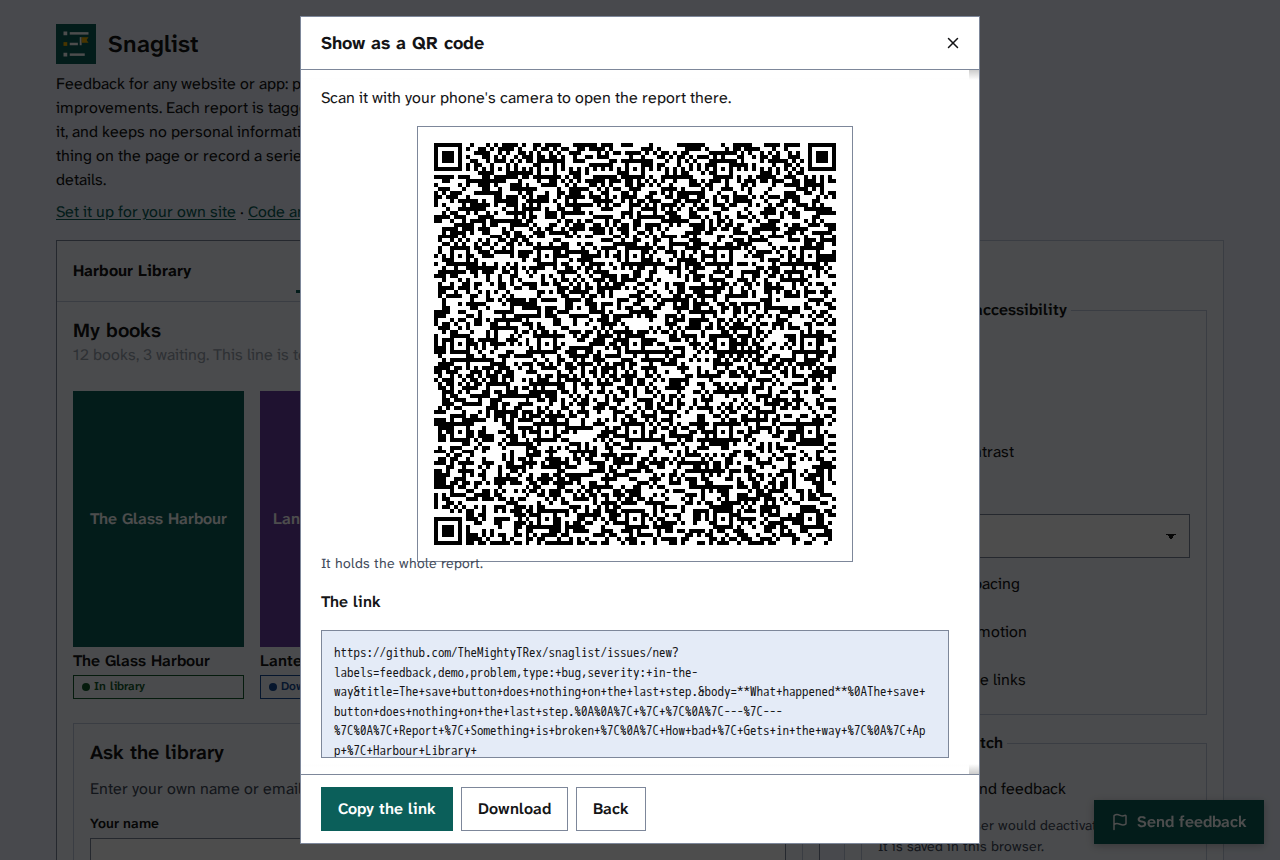
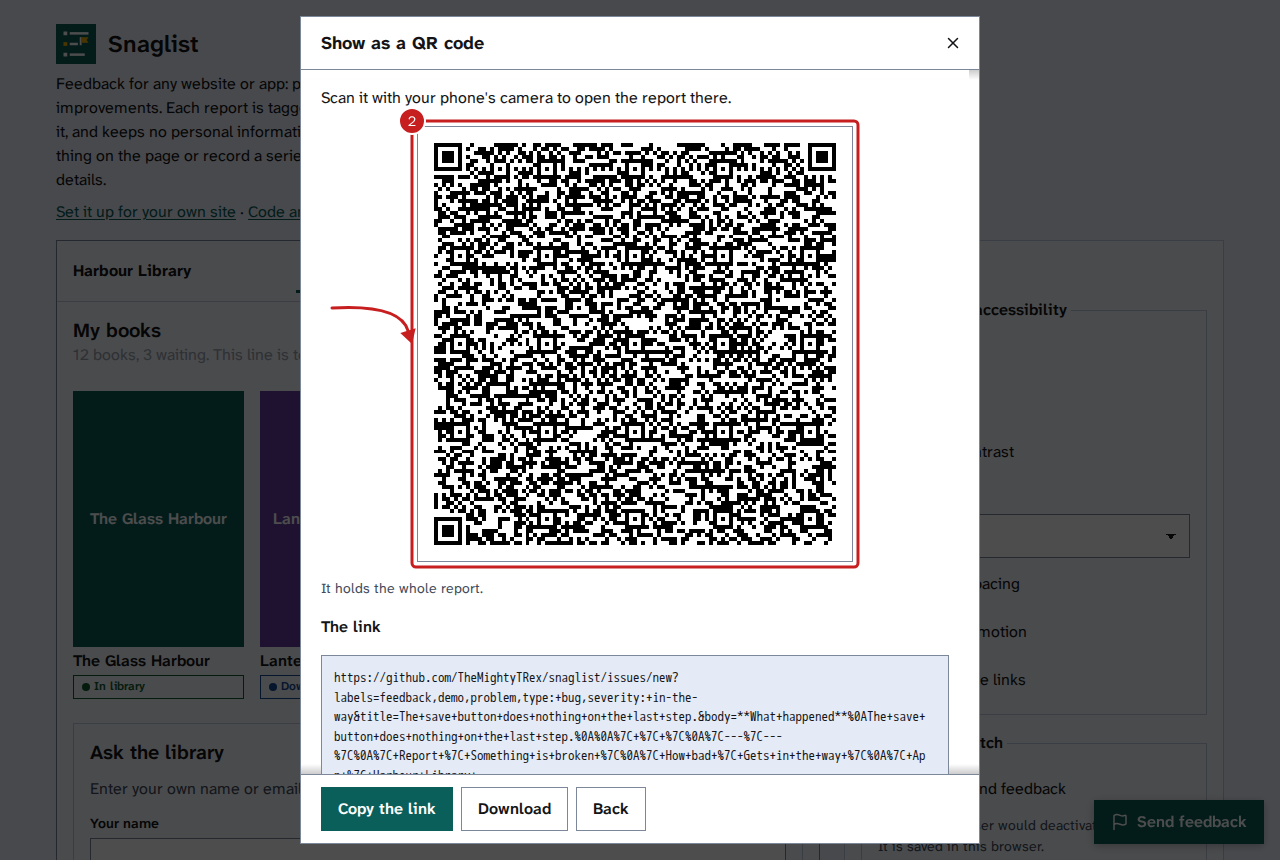
Snaglist 0.4.0: Show as a QR code, tested on a real phone
Marked-up help pictures for Send a report with a QR code (the design system's
annotate.js, moved into Snaglist's open window), the QR code no longer overlaps
its caption in a short window, version 0.4.0, release notes and the security row.

diff --git a/tools/screenshots/annotate.js b/tools/screenshots/annotate.js
@@ -1,0 +1,154 @@
+// Copied from the TRex Design System, tools/annotate.js. Change it there, then copy it here again.
+/* Screenshot mark-up for help, to docs/SCREENSHOTS.md: a red outline 5px outside the control, a curved arrow
+ * with a filled head touching it, and a badge with the article's step number. Paste into the browser console
+ * (or inject it with a test tool), mark, verify, then take the screenshot. Nothing is sent anywhere.
+ *
+ *   Annotate.mark("Add an app", { step: 2, side: "right" })     // exact visible text, tightest element
+ *   Annotate.mark("$#save", { step: 3 })                         // a CSS selector, after the $
+ *   Annotate.mark([el1, el2], { step: 4, side: "bottom" })       // one outline round several elements
+ *   Annotate.mark(Annotate.choice("Keep the old one"), { step: 5 }) // a radio or tick box with its words
+ *   Annotate.verify({ steps: [2, 3, 4, 5] })  // { pass, problems }: never capture when pass is false
+ *   Annotate.clear()
+ */
+(() => {
+  const RED = "#C71F1F", GAP = 5, STROKE = 3, BADGE = 13, MAX = 3;
+  const NS = "http://www.w3.org/2000/svg";
+  const marks = [];
+  let layer = null;
+
+  function svg(tag, attrs) {
+    const n = document.createElementNS(NS, tag);
+    for (const [k, v] of Object.entries(attrs)) n.setAttribute(k, v);
+    return n;
+  }
+
+  function ensureLayer() {
+    if (layer && document.body.contains(layer)) return layer;
+    layer = svg("svg", { id: "__annotate_layer", width: innerWidth, height: innerHeight, "aria-hidden": "true" });
+    Object.assign(layer.style, { position: "fixed", inset: "0", pointerEvents: "none", zIndex: "2147483647", overflow: "visible" });
+    document.body.append(layer);
+    return layer;
+  }
+
+  /** The element whose own visible text is exactly `text`, the tightest one. */
+  function byText(text) {
+    const want = text.trim();
+    let best = null;
+    for (const el of document.querySelectorAll("body *")) {
+      if (el.closest("#__annotate_layer")) continue;
+      const r = el.getBoundingClientRect();
+      if (!r.width || !r.height) continue;
+      if ((el.innerText || "").trim() === want && (!best || best.contains(el))) best = el;
+    }
+    return best;
+  }
+
+  /** A radio button or tick box with its label and the description under it, as one target. */
+  function choice(text) {
+    const label = typeof text === "string" ? byText(text) : text;
+    if (!label) return null;
+    for (let p = label; p && p !== document.body; p = p.parentElement) {
+      if (p.querySelector('input[type="radio"], input[type="checkbox"]')) return p;
+    }
+    return label;
+  }
+
+  function resolve(target) {
+    if (Array.isArray(target)) return target.flatMap(resolve);
+    if (target instanceof Element) return [target];
+    if (typeof target === "string") {
+      const el = target.startsWith("$") ? document.querySelector(target.slice(1)) : byText(target);
+      return el ? [el] : [];
+    }
+    return [];
+  }
+
+  function union(els) {
+    const rs = els.map((e) => e.getBoundingClientRect());
+    const x1 = Math.min(...rs.map((r) => r.left)), y1 = Math.min(...rs.map((r) => r.top));
+    const x2 = Math.max(...rs.map((r) => r.right)), y2 = Math.max(...rs.map((r) => r.bottom));
+    return { x: x1, y: y1, w: x2 - x1, h: y2 - y1 };
+  }
+
+  function draw(m) {
+    const r = union(m.els);
+    const box = { x: r.x - GAP, y: r.y - GAP, w: r.w + GAP * 2, h: r.h + GAP * 2 };
+    m.box = box;
+    const g = svg("g", {});
+    g.append(svg("rect", { x: box.x, y: box.y, width: box.w, height: box.h, rx: 4, fill: "none", stroke: RED, "stroke-width": STROKE }));
+    // The arrow: from `tail` pixels away on the chosen side, a curve that ends on the outline.
+    const t = m.tail;
+    const mid = { x: box.x + box.w / 2, y: box.y + box.h / 2 };
+    const end = { right: { x: box.x + box.w, y: mid.y }, left: { x: box.x, y: mid.y },
+                  top: { x: mid.x, y: box.y }, bottom: { x: mid.x, y: box.y + box.h } }[m.side];
+    const dir = { right: [1, 0], left: [-1, 0], top: [0, -1], bottom: [0, 1] }[m.side];
+    const start = { x: end.x + dir[0] * t, y: end.y + dir[1] * t + (dir[0] ? -t * 0.45 : 0) + 0 };
+    if (!dir[0]) start.x = end.x + t * 0.45;
+    const ctrl = { x: end.x + dir[0] * t * 0.15 + (dir[0] ? 0 : t * 0.5), y: end.y + dir[1] * t * 0.15 + (dir[0] ? -t * 0.5 : 0) };
+    // Stop the line short of the head, so the filled head (not the line) touches the outline.
+    const head = 14;
+    const tx = end.x - ctrl.x, ty = end.y - ctrl.y, len = Math.hypot(tx, ty) || 1;
+    const ux = tx / len, uy = ty / len;
+    const base = { x: end.x - ux * head, y: end.y - uy * head };
+    g.append(svg("path", { d: `M${start.x},${start.y} Q${ctrl.x},${ctrl.y} ${base.x},${base.y}`, fill: "none", stroke: RED, "stroke-width": STROKE, "stroke-linecap": "round" }));
+    const px = -uy, py = ux;
+    g.append(svg("polygon", { points: `${end.x},${end.y} ${base.x + px * 8},${base.y + py * 8} ${base.x - px * 8},${base.y - py * 8}`, fill: RED }));
+    m.arrow = { start, end };
+    // The step badge: top-left, else top-right, else the bottom corners, whichever stays on screen.
+    if (m.step != null) {
+      const spots = [[box.x, box.y], [box.x + box.w, box.y], [box.x, box.y + box.h], [box.x + box.w, box.y + box.h]];
+      const [bx, by] = spots.find(([x, y]) => x - BADGE >= 0 && y - BADGE >= 0 && x + BADGE <= innerWidth && y + BADGE <= innerHeight) || spots[0];
+      g.append(svg("circle", { cx: bx, cy: by, r: BADGE, fill: RED, stroke: "#fff", "stroke-width": 2 }));
+      const label = svg("text", { x: bx, y: by + 5, "text-anchor": "middle", fill: "#fff", "font-size": 14, "font-weight": 700, "font-family": "system-ui, sans-serif" });
+      label.textContent = String(m.step);
+      g.append(label);
+      m.badge = { x: bx, y: by };
+    }
+    m.node = g;
+    ensureLayer().append(g);
+  }
+
+  function mark(target, { step = null, side = "right", tail = 130 } = {}) {
+    const els = resolve(target);
+    if (!els.length) throw new Error(`Annotate: nothing on the page matches ${JSON.stringify(String(target))}`);
+    const m = { target, els, step, side, tail };
+    draw(m);
+    marks.push(m);
+    return m;
+  }
+
+  function verify({ steps } = {}) {
+    const problems = [];
+    if (!Array.isArray(steps)) problems.push("Say which article steps this picture shows: verify({ steps: [...] }), [] for none");
+    if (marks.length > MAX) problems.push(`${marks.length} outlines: at most ${MAX} in one picture`);
+    for (const m of marks) {
+      const name = typeof m.target === "string" ? m.target : m.els[0].tagName.toLowerCase();
+      if (!m.els.every((e) => document.contains(e))) { problems.push(`${name}: the control has left the page`); continue; }
+      const r = union(m.els);
+      const b = m.box;
+      if (Math.abs(r.x - GAP - b.x) > 2 || Math.abs(r.y - GAP - b.y) > 2 || Math.abs(r.w + GAP * 2 - b.w) > 2 || Math.abs(r.h + GAP * 2 - b.h) > 2) {
+        problems.push(`${name}: the page moved, so the outline no longer wraps the control. Clear and mark again`);
+      }
+      for (const [x, y] of [[b.x, b.y], [b.x + b.w, b.y + b.h], [m.arrow.start.x, m.arrow.start.y]]) {
+        if (x < 0 || y < 0 || x > innerWidth || y > innerHeight) { problems.push(`${name}: part of the outline or arrow is off the screen`); break; }
+      }
+      const cx = r.x + r.w / 2, cy = r.y + r.h / 2;
+      const top = document.elementFromPoint(cx, cy);
+      if (top && !m.els.some((e) => e === top || e.contains(top) || top.contains(e))) problems.push(`${name}: something covers the control`);
+      if (Array.isArray(steps) && steps.length && m.step == null) problems.push(`${name}: the outline has no step number`);
+    }
+    if (Array.isArray(steps)) {
+      const badges = marks.map((m) => m.step).filter((s) => s != null).sort((a, b) => a - b);
+      const want = [...steps].sort((a, b) => a - b);
+      if (JSON.stringify(badges) !== JSON.stringify(want)) problems.push(`The badges read ${badges.join(", ") || "none"}; the steps shown are ${want.join(", ") || "none"}`);
+    }
+    return { pass: problems.length === 0, problems };
+  }
+
+  function clear() {
+    marks.splice(0).forEach((m) => m.node && m.node.remove());
+    if (layer) { layer.remove(); layer = null; }
+  }
+
+  window.Annotate = { mark, verify, clear, byText, choice, marks };
+})();

diff --git a/snaglist.js b/snaglist.js
@@ -1,5 +1,5 @@
 /*
- * Snaglist 0.3.2: feedback for any website or app. People report bugs and UX problems, or suggest features and
+ * Snaglist 0.4.0: feedback for any website or app. People report bugs and UX problems, or suggest features and
  * improvements, tagged with the page and the part of it, with the technical detail needed to act on it and
  * without personal information. One file, no libraries, MIT licence.
  * https://github.com/TheMightyTRex/snaglist
@@ -15,7 +15,7 @@
   "use strict";
   if (window.Snaglist) return;
 
-  const VERSION = "0.3.2";
+  const VERSION = "0.4.0";
   const KEY = "snaglist:";
 
   // What people can send. Each type is a problem or a suggestion, asks its own questions and records the
@@ -1834,6 +1834,7 @@ fieldset { border: 0; margin: 0; padding: 0; display: grid; gap: 4px; min-inline
 /* Dark on light in every theme, with a border so the light square has an edge on a light dialog. */
 .sl-qr { display: block; height: auto; margin: 0 auto; background: #fff; border: 1px solid var(--bd); forced-color-adjust: none; }
 .sl-qr-link { min-height: 0; max-height: 8rem; }
+.sl-dialog--qr .sl-body { grid-auto-rows: max-content; }
 .sl-summary p { margin: 0; overflow-wrap: anywhere; }
 .sl-summary .sl-actions { gap: 16px; }
 .sl-disclosure { border: 1px solid var(--bd); background: var(--bg); }

diff --git a/docs/topics/send-a-report-with-a-qr-code.md b/docs/topics/send-a-report-with-a-qr-code.md
@@ -18,12 +18,12 @@ and scan it with your phone. The phone opens the same new GitHub issue, filled i
 1. In **What is sent**, select **Show as a QR code**. When this computer looks offline, it is the first choice,
    with the reason above the privacy statement.
 
-   ![What is sent says This computer looks offline: scan it with your phone instead. Show as a QR code is the first button, before Open in GitHub, Copy as Markdown, Download and Back.](../images/review-offline.png)
+   ![What is sent says This computer looks offline: scan it with your phone instead. Show as a QR code, outlined as step 1, is the first button, before Open in GitHub, Copy as Markdown, Download and Back.](../images/review-offline.png)
 
 2. Point your phone's camera at the code, then open the link it finds. The new issue opens with the title,
    the report and the labels filled in.
 
-   ![Show as a QR code shows Scan it with your phone's camera to open the report there, the QR code, It holds the whole report, and the link as text, with the buttons Copy the link, Download and Back.](../images/qr-code.png)
+   ![Show as a QR code shows Scan it with your phone's camera to open the report there, the QR code, outlined as step 2, It holds the whole report, and the link as text, with the buttons Copy the link, Download and Back.](../images/qr-code.png)
 
 3. Read the issue on your phone, then post it.
 4. On the computer, select **Back** to return to **What is sent**, or close the window.
@@ -39,7 +39,7 @@ and scan it with your phone. The phone opens the same new GitHub issue, filled i
 - The code is dark on light in every theme, so phones read it in dark mode too. Screen readers read a
   description of it, and the link as text.
 
-  ![On a phone-sized window in dark mode, Show as a QR code shows the code dark on a light square, It holds the whole report, the link as text, and the buttons Copy the link, Download and Back.](../images/qr-code-dark.png)
+  ![On a phone-sized window in dark mode, Show as a QR code shows the code, outlined, dark on a light square, It holds the whole report, the link as text, and the buttons Copy the link, Download and Back.](../images/qr-code-dark.png)
 
 - The code holds only what the preview in **What is sent** shows, never what you typed into the page.
 

diff --git a/docs/SECURITY-AND-TESTS.md b/docs/SECURITY-AND-TESTS.md
@@ -9,7 +9,7 @@ To report a problem privately, use **Report a vulnerability** on the repository'
 [SECURITY.md](../SECURITY.md). For what a report holds, see
 [What a report holds, and what it never holds](topics/what-a-report-holds.md).
 
-Latest results: 3 November 2026.
+Latest results: 8 November 2026.
 
 ## How Snaglist protects people
 
@@ -117,6 +117,9 @@ The tests for **Show as a QR code** run the same way:
 | QR-04 | A long report goes in shorter, the view says what the code holds, and the link and Download stay | Pass |
 | QR-05 | The view works from the keyboard and is dark on light in all four themes | Pass |
 
+On 8 November 2026, TheMightyTRexUK scanned a code from the demo with a real phone, and the phone opened the
+new GitHub issue, filled in.
+
 The journeys in `tools/screenshots.sh` go through every main path in a real browser (one part, a recording, a
 suggestion, a phone in dark mode, the accessibility check, the demo's display settings, the set-up tool, and
 the QR code, offline and in dark mode) and retake the pictures in the help.
@@ -157,4 +160,5 @@ security fixes under Security.
 
 | Release | Tests | Journeys | Security scans | CodeQL | Notes |
 |---|---|---|---|---|---|
+| 0.4.0 (8 November 2026) | 73 of 73 passed (25 IDs; the browser tests in Chromium, Firefox and WebKit) | Passed, pictures retaken, the QR pictures marked up | Gitleaks 0, Trivy 0, ESLint 0 (after one warning in the screenshot tool was fixed), Semgrep 0, Bandit 0, ShellCheck 0, ZAP no failures (baseline and active) | Run here: 0 alerts | Show as a QR code; see [the 0.4.0 notes](releases/v0.4.0.md) |
 | 0.3.2 (3 November 2026) | 55 of 55 passed (19 IDs; the browser tests in Chromium, Firefox and WebKit) | Passed, pictures retaken | Gitleaks 0 (2 made-up test keys listed), Trivy 0, ESLint 0, Semgrep 0, Bandit 0, ShellCheck 0, ZAP no failures (baseline and active) | Run here: 0 real alerts left. On GitHub: 0 alerts | First full check; see [the 0.3.2 notes](releases/v0.3.2.md) |

diff --git a/docs/releases/v0.4.0.md b/docs/releases/v0.4.0.md
@@ -1,0 +1,25 @@
+# Snaglist v0.4.0
+
+Released 8 November 2026.
+
+## Added
+
+- **Show as a QR code.** With GitHub set up, **What is sent** offers the same pre-filled new issue as a QR code,
+  for a phone to open when the computer is not online, such as one being set up. It comes first when the
+  computer looks offline, with the reason above the privacy statement. A long report goes in shorter: first
+  without its technical details, then with the words cut to fit, and the view says what the code holds. The
+  link is shown as text with **Copy the link**, and **Download** keeps the whole report. The code is dark on
+  light in every theme, with a text description, and works from the keyboard. The encoder is part of
+  `snaglist.js`, so there is still one file and no libraries. Leave it out with `send: { qr: false }`.
+  [Send a report with a QR code](../topics/send-a-report-with-a-qr-code.md) has the steps.
+- **The help centre on the web,** at https://themightytrex.github.io/snaglist/help/, with search, a menu of every
+  article and display settings.
+- **A changelog,** in `CHANGELOG.md`, listing every version since 0.1.0.
+
+## Security
+
+- **The QR code holds only what the preview shows.** Nothing typed into the page, and no email address or key,
+  reaches the code (test SEC-20). The QR tests, QR-01 to QR-05, check the encoder against the design system's
+  own and the view in every theme.
+
+Size: about 128 KB, or about 40 KB compressed.

diff --git a/CHANGELOG.md b/CHANGELOG.md
@@ -7,6 +7,10 @@ follow [Semantic Versioning](https://semver.org/). Each release's notes are also
 
 ## [Unreleased]
 
+## [0.4.0] (8 November 2026)
+
+Send a report from a computer that is not online, with a QR code for a phone to scan.
+
 ### Added
 - **Show as a QR code.** With GitHub set up, **What is sent** offers the same pre-filled new issue as a QR code,
   for a phone to open when the computer is not online, such as one being set up. It comes first when the
@@ -138,7 +142,8 @@ The first version. It was not tagged.
   to record.
 - **A demo page,** documentation, prompts for AI coding assistants and an example server.
 
-[Unreleased]: https://github.com/TheMightyTRex/snaglist/compare/v0.3.2...HEAD
+[Unreleased]: https://github.com/TheMightyTRex/snaglist/compare/v0.4.0...HEAD
+[0.4.0]: https://github.com/TheMightyTRex/snaglist/compare/v0.3.2...v0.4.0
 [0.3.2]: https://github.com/TheMightyTRex/snaglist/compare/v0.3.1...v0.3.2
 [0.3.1]: https://github.com/TheMightyTRex/snaglist/compare/v0.3.0...v0.3.1
 [0.3.0]: https://github.com/TheMightyTRex/snaglist/compare/v0.2.0...v0.3.0

diff --git a/docs/topics/host-snaglist-on-your-own-server.md b/docs/topics/host-snaglist-on-your-own-server.md
@@ -13,10 +13,10 @@ update.
 
 ## Steps
 
-1. Download the version you want into the folder your server serves. This command saves version 0.3.2:
+1. Download the version you want into the folder your server serves. This command saves version 0.4.0:
 
    ```bash
-   curl -fsSL -o snaglist.js https://raw.githubusercontent.com/TheMightyTRex/snaglist/v0.3.2/snaglist.js
+   curl -fsSL -o snaglist.js https://raw.githubusercontent.com/TheMightyTRex/snaglist/v0.4.0/snaglist.js
    ```
 
 2. Check it downloaded in full. The file ends with `})();`:
@@ -42,7 +42,7 @@ update.
   visitors' requests:
 
   ```html
-  <script src="https://cdn.jsdelivr.net/gh/TheMightyTRex/snaglist@v0.3.2/snaglist.js" defer></script>
+  <script src="https://cdn.jsdelivr.net/gh/TheMightyTRex/snaglist@v0.4.0/snaglist.js" defer></script>
   ```
 
 - To take reports on your own server too, read

diff --git a/docs/topics/update-snaglist.md b/docs/topics/update-snaglist.md
@@ -9,10 +9,10 @@ Snaglist is one file, so updating means replacing it. Your settings stay in your
 ## Steps
 
 1. Read what changed in the [releases](https://github.com/TheMightyTRex/snaglist/releases) (opens in a new tab).
-2. Download the new version over the old file. Put the version you want in place of `v0.3.2`:
+2. Download the new version over the old file. Put the version you want in place of `v0.4.0`:
 
    ```bash
-   curl -fsSL -o snaglist.js https://raw.githubusercontent.com/TheMightyTRex/snaglist/v0.3.2/snaglist.js
+   curl -fsSL -o snaglist.js https://raw.githubusercontent.com/TheMightyTRex/snaglist/v0.4.0/snaglist.js
    ```
 
 3. Publish your site, then open a page and make a test report.

diff --git a/docs/topics/send-reports-to-your-own-server.md b/docs/topics/send-reports-to-your-own-server.md
@@ -21,7 +21,7 @@ Snaglist.start({ send: { endpoint: { url: "https://reports.example/" } } });
 {
   "title": "book-list: The list does not load",
   "markdown": "**What happened**\nThe list does not load\n\n| | |\n|---|---|\n| Report | Something is broken |\n...",
-  "report": { "tool": "snaglist 0.3.2", "type": "bug", "severity": "in-the-way", "answers": { "actual": "..." }, "page": {}, "element": {}, "network": [] }
+  "report": { "tool": "snaglist 0.4.0", "type": "bug", "severity": "in-the-way", "answers": { "actual": "..." }, "page": {}, "element": {}, "network": [] }
 }
 ```
 
